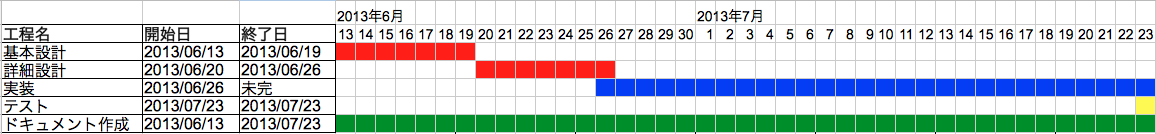
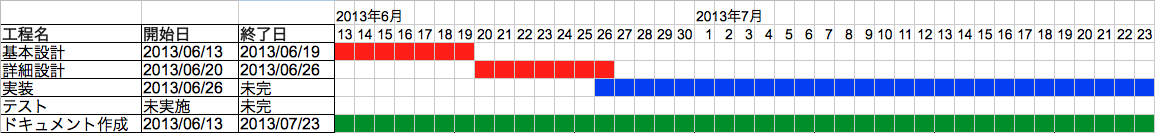
開発実績修正

Changed region(s): [[0.0, 0.0301, 1.0, 1.0], [0.5922, 0.0602, 0.6545, 0.1805]]

diff --git a/Project_Forest_Problem/DevelopmentResult/index.html b/Project_Forest_Problem/DevelopmentResult/index.html
@@ -259,7 +259,7 @@ th {
                     <table class="content" summary="table">
                         <tbody>
                             <tr>
-                                <td class="center-small"><a href="images/GanttChart.jpg"><img class="borderless" src="thumbnails/GanttChart.jpg" width="1084" height="146" alt="GanntChart"></a></td>
+                                <td class="center-small"><a href="images/GanttChart.jpg"><img class="borderless" src="thumbnails/GanttChart.jpg" width="1084" height="146" alt="GanttChart"></a></td>
                             </tr>
                         </tbody>
                     </table>
@@ -267,7 +267,7 @@ th {
             </tr>
         </tbody>
     </table>
-    <p>デザイン（基本設計および詳細設計）が計画より遅れ、プログラミング（実装）が途中段階である。テスト（単体テストや結合テスト）は現段階ではMacBookPro（version 10.7.5,version 10.8.4）でのみ、実施が完了している。また、全ドキュメントおよび全プログラムをGitHubリポジトリを介しながら開発を進めた。</p>
+    <p>デザイン（基本設計および詳細設計）が計画より遅れ、プログラミング（実装）が途中段階である。現段階ではMacBookPro（version 10.7.5,version 10.8.4）で、実行時の動作状況の確認のみが完了しており、テスト（単体テストや結合テスト）は未実施である。また、全ドキュメントおよび全プログラムをGitHubリポジトリを介しながら開発を進めた。</p>
 <hr>
 <div class="right-small">Copyright 20xx Project xx, Updated: 2013/07/23 (Created: 2009/11/11)</div>
 </body>
